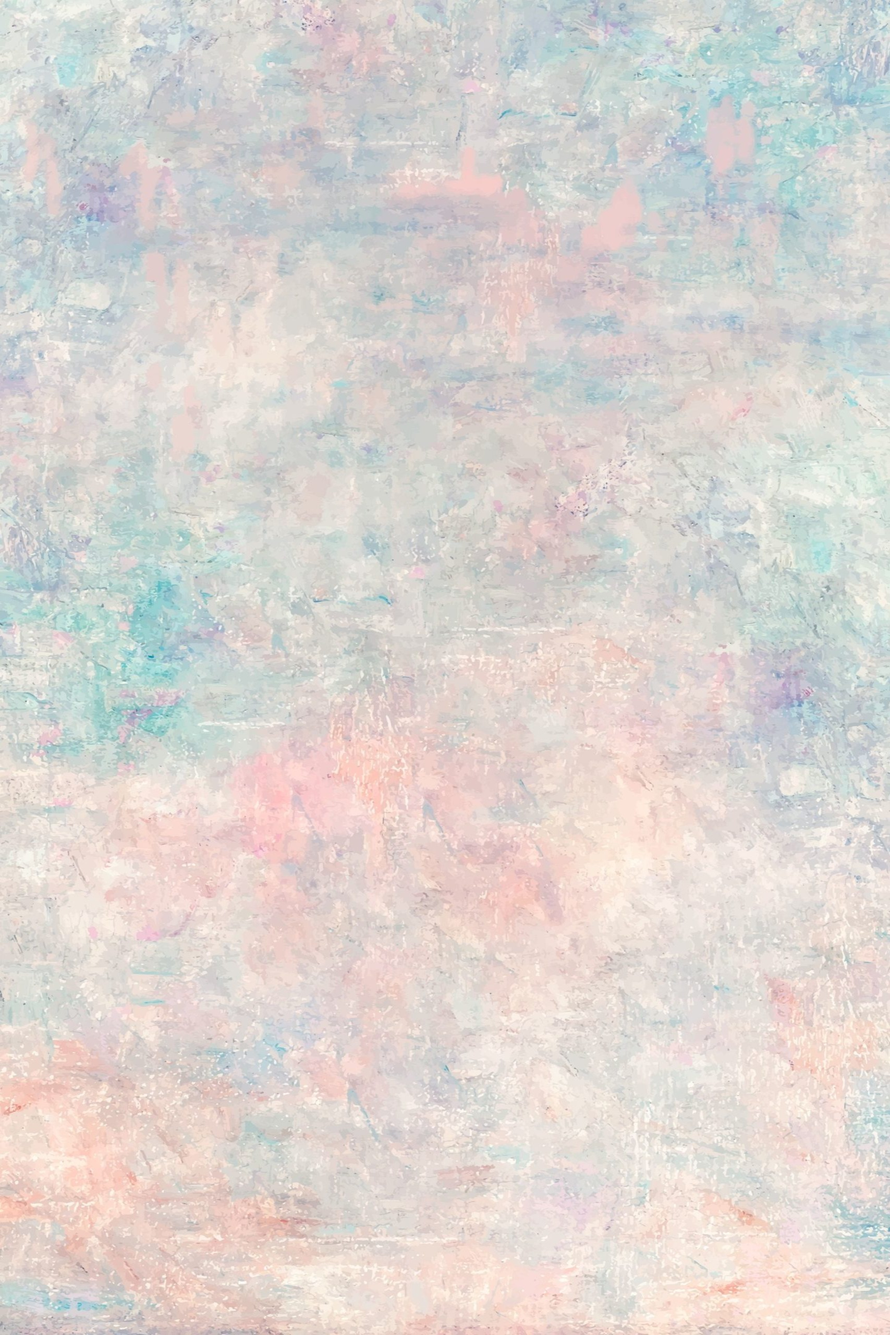
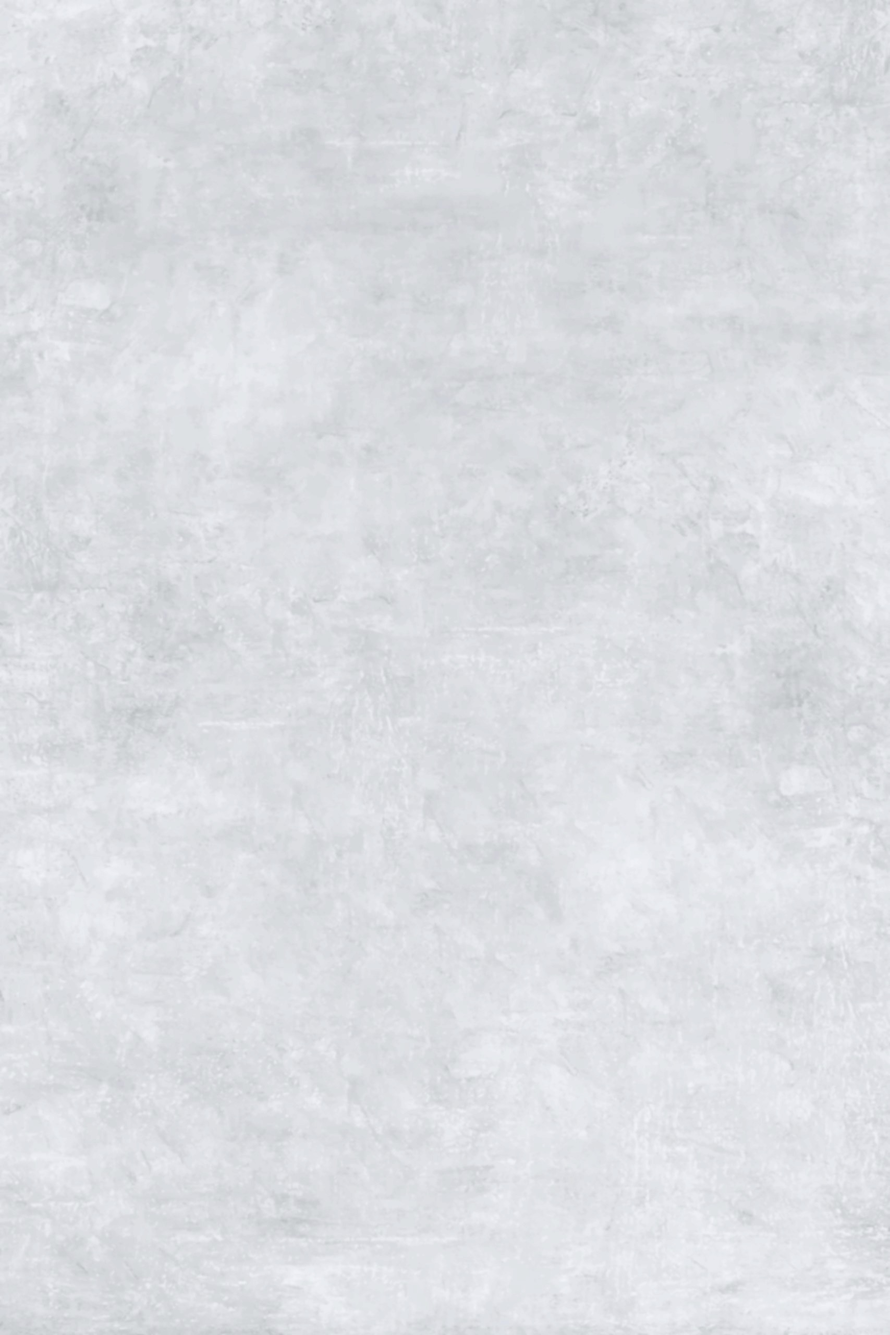
Contact Page completed, uploaded background image.

diff --git a/public/content/css/app.css b/public/content/css/app.css
@@ -9,6 +9,7 @@
     font-family: 'Gill Sans', 'Gill Sans MT', Calibri, 'Trebuchet MS', sans-serif;
     text-align: center;
     user-select: none;
+
 }
 .aboutphoto{
     width: auto;
@@ -18,6 +19,7 @@
     margin-right: auto;
     margin-top: 20px;
     user-select: none;
+    
 }
 .homephoto{
     width: auto;
@@ -65,4 +67,14 @@ img {
     -moz-user-drag: none;
     -o-user-drag: none;
     user-drag: none;
+}
+.connection {
+    width: 100%;
+    height: auto;
+    text-align: center;
+    padding-top: 30px;
+
+}
+body{
+    background-image: url(/content/images/background.jpg);
 }

diff --git a/public/scripts/app.js b/public/scripts/app.js
@@ -1,11 +1,6 @@
-//IIFE
-(function()
-{
+let button = document.getElementById("button");
 
-    function Start()
-    {
-        console.log("App Started!");
-    }
 
-    window.addEventListener('load', Start);
-})();
+function redirect(){
+    alert("THE MESSAGE WAS SENT SUCCESSFULLY  !")
+};
